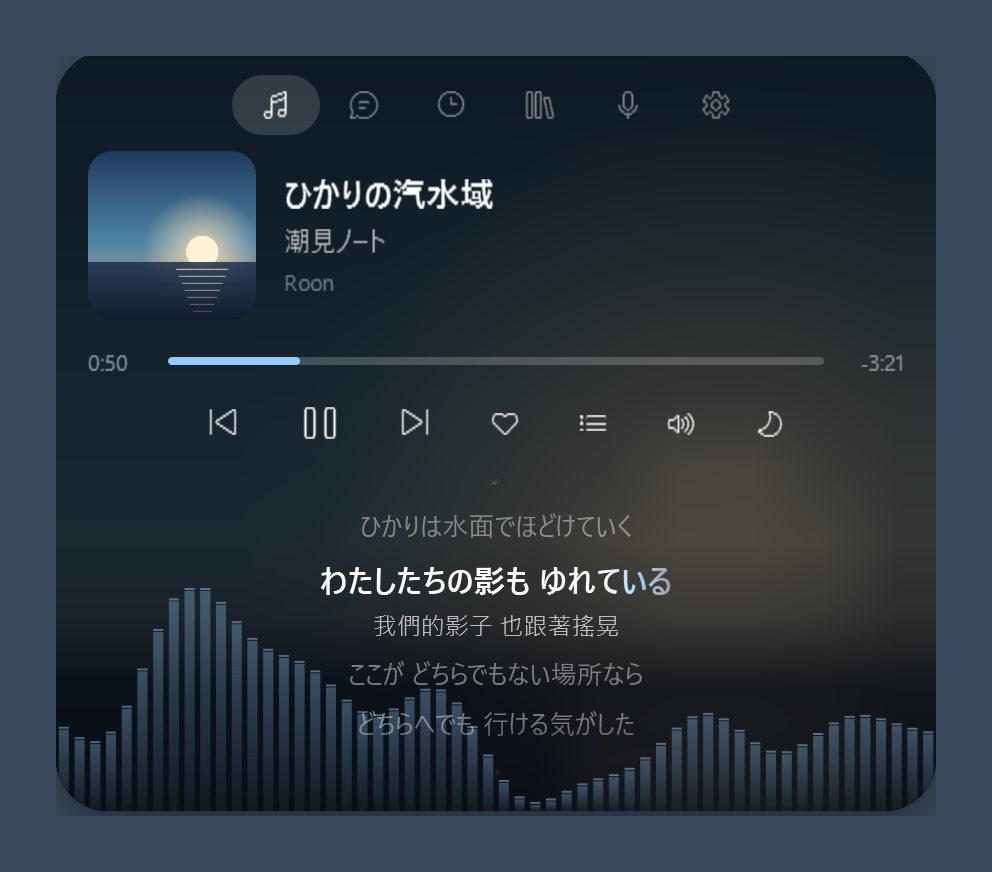
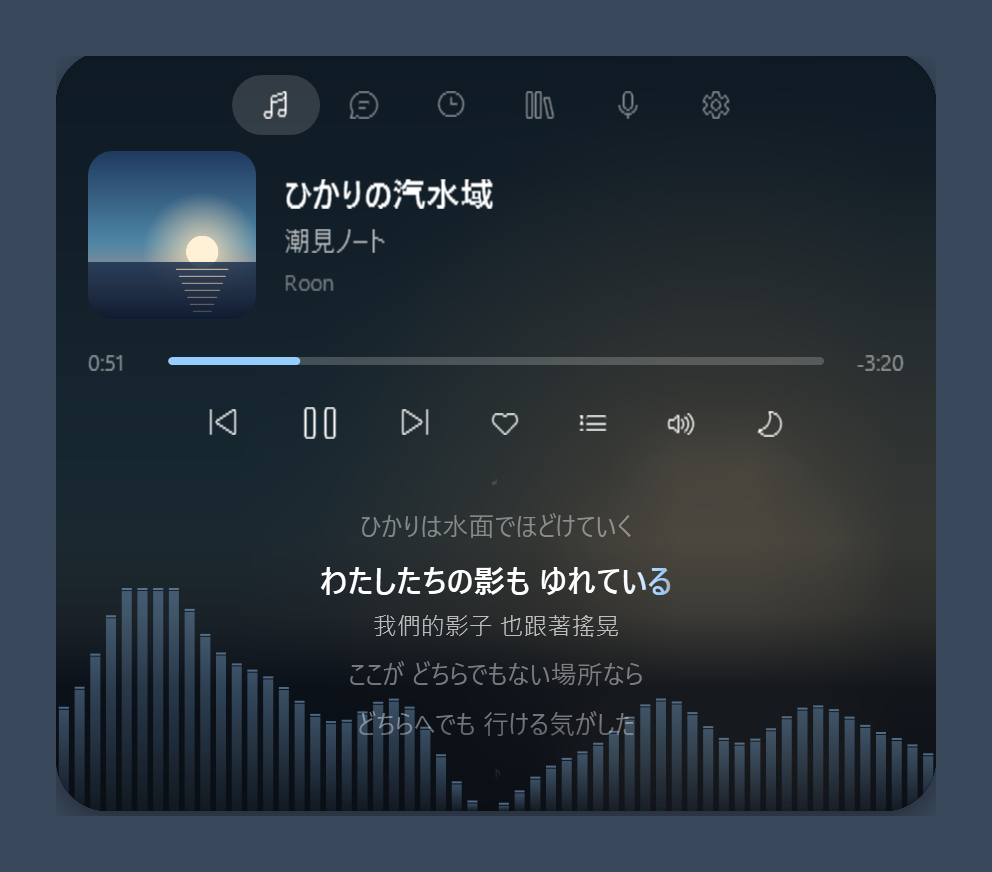
chore: 示範模式不受前景全螢幕程式影響；README 補上量測工具，截圖更新

Changed region(s): [[0.0625, 0.6502, 0.9375, 0.9289], [0.625, 0.6502, 0.6875, 0.6812], [0.875, 0.4025, 0.9062, 0.4335]]

diff --git a/src/Shima/Demo.cs b/src/Shima/Demo.cs
@@ -40,6 +40,8 @@ public static class Demo
         s.RoonHost = "";
         s.CheckUpdates = false;
         s.Welcomed = true;
+        // 前景剛好是全螢幕（或最大化）的程式時島會當成被藏起來，音量條與頻譜就不畫了：截圖要每次都一樣
+        s.HideInFullscreen = false;
         s.SetApiKey("claude", "demo");   // 當成已經設定好：AI 分頁顯示的是平常的樣子，不是第一次設定的樣子
         s.Todos =
         [

diff --git a/README.md b/README.md
@@ -86,6 +86,8 @@ Windows 螢幕頂端的一座小島：顯示正在播放的音樂、同步歌詞
 
 `tools/shot.sh <資料夾>`（也就是 `Shima.exe --demo --shot <資料夾>`）把膠囊與各分頁存成 PNG。`--demo` 是示範模式：歌、歌詞、聆聽紀錄、待辦都是編出來的，設定放在暫存資料夾，不連 Roon 也不讀系統的媒體資訊，所以可以跟平常在用的那一份同時開著，截圖裡也不會有自己的東西。設定與資料的位置可以用環境變數 `SHIMA_DATA` 改到別的資料夾。
 
+`tools/bench.sh [秒數]` 用示範模式量閒置、播歌、展開三種狀態下這段時間用了多少 CPU、配置了多少記憶體，改動繪圖或計時器前後各跑幾次比較（機器忙的時候數字會飄）。
+
 ## AI
 
 展開島 → 麥克風分頁。
